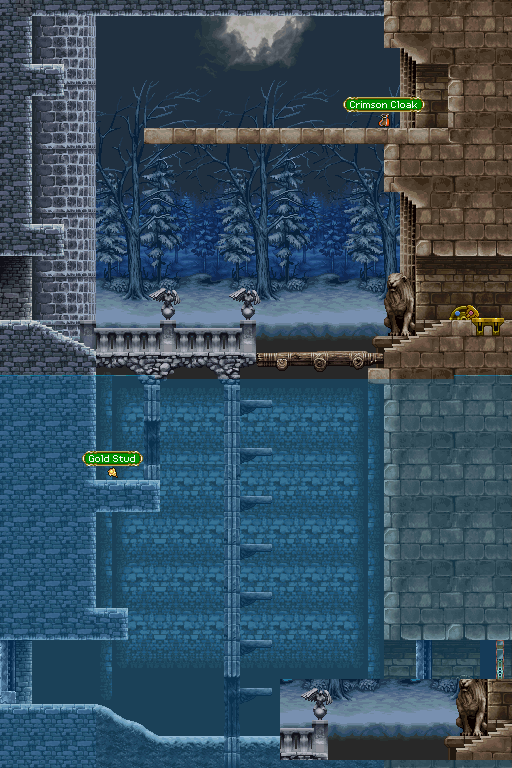
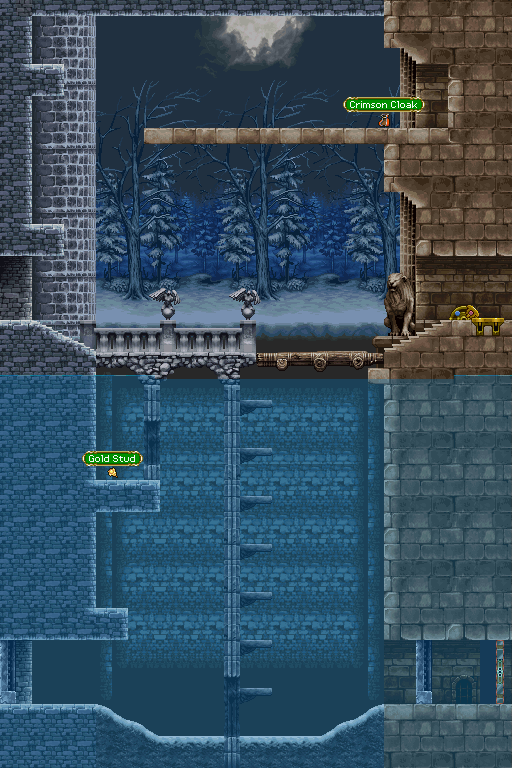
fix: collision

Changed region(s): [[0.5312, 0.875, 1.0, 1.0]]

diff --git a/frontend/src/game/levels/list/s10/index.ts b/frontend/src/game/levels/list/s10/index.ts
@@ -10,9 +10,9 @@ import SurfaceType from '../../../types';
 
 const walls:(SurfaceConfig | LoadingConfig)[] = [
   ...positionsFromPoints([
-    new P(112, 0), new P(112, 240), new P(48, 240), new P(48, 256),
+    new P(112, -100), new P(112, 240), new P(48, 240), new P(48, 256),
     new P(0, 256), new P(0, 320),
-    new P(64, 320),
+    new P(64, 320), new P(80, 324),
   ]).map((s, i) => {
     if (i === 4) return { ...s, levelId: LevelId.S11, zone: 3 };
     // todo: fix collision
@@ -24,20 +24,20 @@ const walls:(SurfaceConfig | LoadingConfig)[] = [
     return s;
   }),
   ...positionsFromPoints([
-    new P(80, 336), new P(80, 448),
+    new P(80, 326), new P(80, 448),
     new P(0, 448), new P(0, 512),
-    new P(80, 512), new P(112, 512), new P(112, 640),
+    new P(80, 512), new P(80, 560), new P(96, 576), new P(96, 624), new P(112, 640),
     new P(0, 640), new P(0, 704),
     new P(32, 704),
     new P(64, 736), new P(432, 736), new P(464, 704),
     new P(512, 704), new P(512, 640),
-    new P(416, 640), new P(432, 592), new P(432, 432),
+    new P(416, 640), new P(432, 624), new P(432, 592), new P(432, 432),
     new P(416, 432), new P(416, 336),
   ]).map((s, i) => {
     if (i === 2) return { ...s, levelId: LevelId.S11, zone: 2 };
-    if (i === 7) return { ...s, levelId: LevelId.S11, zone: 0 };
-    if (i === 13) return { ...s, levelId: LevelId.S9, zone: 4 };
-    if (i === 10) return { ...s, type: SurfaceType.Ice };
+    if (i === 9) return { ...s, levelId: LevelId.S11, zone: 0 };
+    if (i === 15) return { ...s, levelId: LevelId.S9, zone: 4 };
+    if (i === 12) return { ...s, type: SurfaceType.Ice };
     // todo: fix collision
     // if (i === 24) return { ...s, levelId: LevelId.S9, zone: 1 };
     // if (i === 28) return { ...s, levelId: LevelId.S9, zone: 0 };
@@ -48,7 +48,7 @@ const walls:(SurfaceConfig | LoadingConfig)[] = [
   ]).map((s, i) => ((i === 1) ? { ...s, levelId: LevelId.S9, zone: 2 } : s)),
   // todo: fix collision
   ...positionsFromPoints([
-    new P(432, 128), new P(512, 128), new P(512, 64), new P(432, 64), new P(432, 0),
+    new P(432, 128), new P(512, 128), new P(512, 64), new P(432, 64), new P(432, -100),
   ]).map((s, i) => ((i === 1) ? { ...s, levelId: LevelId.S9, zone: 0 } : s)),
   // todo: fix collision
   ...positionsFromPoints(
@@ -60,7 +60,7 @@ const walls:(SurfaceConfig | LoadingConfig)[] = [
   ...positionsFromPoints([new P(400, 528), new P(352, 528)], true),
   ...positionsFromPoints([new P(304, 480), new P(208, 480), new P(80, 512)], true),
   ...positionsFromPoints([new P(272, 432), new P(240, 432)], true),
-  ...positionsFromPoints([new P(64, 320), new P(128, 336), new P(176, 336)], true),
+  ...positionsFromPoints([new P(80, 324), new P(128, 336), new P(176, 336)], true),
   ...positionsFromPoints([new P(192, 368), new P(304, 368)], true),
   ...positionsFromPoints([new P(320, 336), new P(368, 336), new P(432, 320)], true),
   ...positionsFromPoints([new P(272, 288), new P(224, 288)], true),

diff --git a/frontend/src/game/levels/list/s3/index.ts b/frontend/src/game/levels/list/s3/index.ts
@@ -7,22 +7,34 @@ import {
 } from '../../config';
 import LevelId from '../ids';
 
-const loop = new P(48, 0);
+const loop = new P(48, -100);
 
 const walls:(SurfaceConfig | LoadingConfig)[] = [
   ...positionsFromPoints([
     loop, new P(48, 16), new P(16, 48), new P(16, 48), new P(16, 112), new P(32, 112),
-    new P(48, 112), new P(80, 144), new P(80, 160), new P(48, 192), new P(48, 576),
+    new P(48, 112), new P(80, 144),
+  ]),
+
+  ...positionsFromPoints([
+    new P(80, 146), new P(80, 160), new P(48, 192), new P(48, 576),
     new P(48, 576), new P(80, 576), new P(80, 608), new P(48, 640),
     new P(0, 640), new P(0, 704),
     new P(288, 704), new P(352, 720), new P(512, 720), new P(576, 704),
     new P(768, 704), new P(768, 640),
     new P(720, 640), new P(688, 608), new P(688, 576), new P(720, 576), new P(720, 192),
-    new P(688, 160), new P(688, 128), new P(752, 128),
-    new P(752, 64), new P(688, 64), new P(688, 0), loop,
+    new P(688, 160), new P(688, 130),
   ]).map((s, i) => {
-    if (i === 15) return { ...s, levelId: LevelId.S2, zone: 2 };
-    if (i === 21) return { ...s, levelId: LevelId.S4, zone: 0 };
+    if (i === 8) return { ...s, levelId: LevelId.S2, zone: 2 };
+    if (i === 14) return { ...s, levelId: LevelId.S4, zone: 0 };
+    return s;
+  }),
+
+  ...positionsFromPoints([
+    new P(688, 128), new P(752, 128),
+    new P(752, 64), new P(688, 64), new P(688, loop.Y), loop,
+  ]).map((s, i) => {
+    if (i === 8) return { ...s, levelId: LevelId.S2, zone: 2 };
+    if (i === 14) return { ...s, levelId: LevelId.S4, zone: 0 };
     return s;
   }),
 

diff --git a/frontend/src/game/levels/index.ts b/frontend/src/game/levels/index.ts
@@ -85,10 +85,10 @@ class Level {
   }
 
   private static initArea(surface:Surface[], minSize?:Point):Rectangle {
-    const left = surface.reduce((p, c) => Math.min(p, c.position.MinX), 0); // todo: MAXSAFEINTEGER
+    const left = 0;
     const right = surface.reduce((p, c) => Math.max(p, c.position.MaxX), 0);
     const width = Math.max(right - left + 1, minSize?.X || 0);
-    const top = surface.reduce((p, c) => Math.min(p, c.position.MinY), 0); // todo: MAXSAFEINTEGER
+    const top = 0;
     const bottom = surface.reduce((p, c) => Math.max(p, c.position.MaxY), 0);
     const height = Math.max(bottom - top + 1, minSize?.Y || 0);
     return new Rectangle(left - 1, top - 1, width + 1, height + 1);
@@ -144,7 +144,7 @@ class Level {
     }
 
     const ceilCollision = Collision.processCeil(this.surfaces[SurfaceGroup.Ceils], e, move);
-    if (ceilCollision) {
+    if (ceilCollision && ceilCollision.point.Y) {
       e.Position.Y = ceilCollision.point.Y + e.Collision.Height; e.resetVelocityY(true);
     }
 

diff --git a/frontend/src/views/settingSound/index.ts b/frontend/src/views/settingSound/index.ts
@@ -8,13 +8,13 @@ class SettingSound extends View {
 
   init() {
     const musicVolume = this.getElementById('music');
-    (musicVolume as HTMLInputElement).value = String(this.settingSound.MusicVolume);
+    (musicVolume as HTMLInputElement).value = String(this.settingSound.MusicVolume * 100);
     musicVolume?.addEventListener('change', (e) => {
       const value = Number((e.target as HTMLInputElement).value);
       this.settingSound.MusicVolume = +value / 100;
     });
     const SoundsVolume = this.getElementById('Sounds');
-    (SoundsVolume as HTMLInputElement).value = String(this.settingSound.SoundsVolume);
+    (SoundsVolume as HTMLInputElement).value = String(this.settingSound.SoundsVolume * 100);
     SoundsVolume?.addEventListener('change', (e) => {
       const value = Number((e.target as HTMLInputElement).value);
       this.settingSound.SoundsVolume = +value / 100;

diff --git a/frontend/src/game/levels/list/s2/index.ts b/frontend/src/game/levels/list/s2/index.ts
@@ -7,7 +7,7 @@ import {
 } from '../../config';
 import LevelId from '../ids';
 
-const loop = new P(48, 0);
+const loop = new P(48, -100);
 const walls:(SurfaceConfig | LoadingConfig)[] = [
   ...positionsFromPoints([
     loop, new P(48, 64),
@@ -16,7 +16,7 @@ const walls:(SurfaceConfig | LoadingConfig)[] = [
     new P(0, 256), new P(0, 320),
     new P(48, 320), new P(80, 336), new P(368, 336), new P(432, 320),
     new P(512, 320), new P(512, 256),
-    new P(464, 256), new P(432, 224), new P(432, 192), new P(464, 192), new P(464, 0), loop,
+    new P(464, 256), new P(432, 224), new P(432, 192), new P(464, 192), new P(464, loop.Y), loop,
   ]).map((s, i) => {
     if (i === 2) return { ...s, levelId: LevelId.S1, zone: 0 };
     if (i === 9) return { ...s, levelId: LevelId.Beggining, zone: 1 };

diff --git a/frontend/src/game/levels/list/s8/index.ts b/frontend/src/game/levels/list/s8/index.ts
@@ -7,7 +7,7 @@ import {
 } from '../../config';
 import LevelId from '../ids';
 
-const loop = new P(80, 16);
+const loop = new P(80, -100);
 
 const walls:(SurfaceConfig | LoadingConfig)[] = [
   ...positionsFromPoints([
@@ -17,7 +17,7 @@ const walls:(SurfaceConfig | LoadingConfig)[] = [
     new P(80, 160), new P(144, 176), new P(336, 176),
     new P(400, 160), new P(416, 160), new P(480, 128),
     new P(512, 128), new P(512, 64),
-    new P(480, 64), new P(448, 32), new P(448, 16), loop,
+    new P(480, 64), new P(448, 32), new P(448, loop.Y), loop,
   ]).map((s, i) => {
     if (i === 2) return { ...s, levelId: LevelId.S9, zone: 1 };
     if (i === 12) return { ...s, levelId: LevelId.S4, zone: 1 };

diff --git a/frontend/src/game/levels/list/beggining/index.ts b/frontend/src/game/levels/list/beggining/index.ts
@@ -7,14 +7,14 @@ import {
 } from '../../config';
 import LevelId from '../ids';
 
-const loop = new P(48, 0);
+const loop = new P(48, -100);
 
 const walls:(SurfaceConfig | LoadingConfig)[] = [
   ...positionsFromPoints([new P(128, 160), new P(128, 160)])
     .map((v) => ({ ...v, levelId: LevelId.Beggining })),
   ...positionsFromPoints([
     loop, new P(48, 160), new P(416, 160), new P(480, 128), new P(512, 128),
-    new P(512, 64), new P(464, 64), new P(432, 32), new P(432, 0), loop,
+    new P(512, 64), new P(464, 64), new P(432, 32), new P(432, loop.Y), loop,
   ]).map((s, i) => {
     if (i === 4) return { ...s, levelId: LevelId.S2, zone: 1 };
     return s;

diff --git a/frontend/src/game/levels/list/s4/index.ts b/frontend/src/game/levels/list/s4/index.ts
@@ -7,7 +7,7 @@ import {
 } from '../../config';
 import LevelId from '../ids';
 
-const loop = new P(48, 0);
+const loop = new P(48, -100);
 
 const walls:(SurfaceConfig | LoadingConfig)[] = [
   ...positionsFromPoints([
@@ -19,7 +19,7 @@ const walls:(SurfaceConfig | LoadingConfig)[] = [
     new P(256, 320), new P(256, 256),
     new P(224, 256), new P(160, 176), new P(224, 128),
     new P(256, 128), new P(256, 64),
-    new P(208, 64), new P(208, 0), loop,
+    new P(208, 64), new P(208, loop.Y), loop,
   ]).map((s, i) => {
     if (i === 2) return { ...s, levelId: LevelId.S3, zone: 1 };
     if (i === 7) return { ...s, levelId: LevelId.S8, zone: 1 };

diff --git a/frontend/src/game/levels/list/s1/index.ts b/frontend/src/game/levels/list/s1/index.ts
@@ -7,19 +7,13 @@ import {
 } from '../../config';
 import LevelId from '../ids';
 
-const start = new P(256, 64);
+const loop = new P(256, 64);
 
 const walls:(SurfaceConfig | LoadingConfig)[] = [
   ...positionsFromPoints([
-    start,
-    new P(256, 128),
-    new P(224, 128),
-    new P(192, 160),
-    new P(48, 160),
-    new P(48, 32),
-    new P(192, 32),
-    new P(224, 64),
-    start,
+    loop, new P(256, 128),
+    new P(224, 128), new P(192, 160), new P(48, 160), new P(48, 32), new P(192, 32), new P(224, 64),
+    loop,
   ]).map((s, i) => ((i === 0) ? { ...s, levelId: LevelId.S2, zone: 0 } : s)),
 ];
 

diff --git a/frontend/src/game/levels/list/s13/index.ts b/frontend/src/game/levels/list/s13/index.ts
@@ -12,12 +12,11 @@ const walls:(SurfaceConfig | LoadingConfig)[] = [
   ...positionsFromPoints([
     new P(432, 128),
     new P(512, 128), new P(512, 64),
-    new P(432, 64), new P(432, 16), new P(48, 16), new P(48, 256), new P(0, 256),
+    new P(432, 64), new P(432, -100), new P(48, -100), new P(48, 256), new P(0, 256),
     new P(0, 320), new P(64, 320),
   ]).map((s, i) => {
     if (i === 1) return { ...s, levelId: LevelId.S14, zone: 0 };
     if (i === 7) return { ...s, levelId: LevelId.S9, zone: 3 };
-
     return s;
   }),
 
